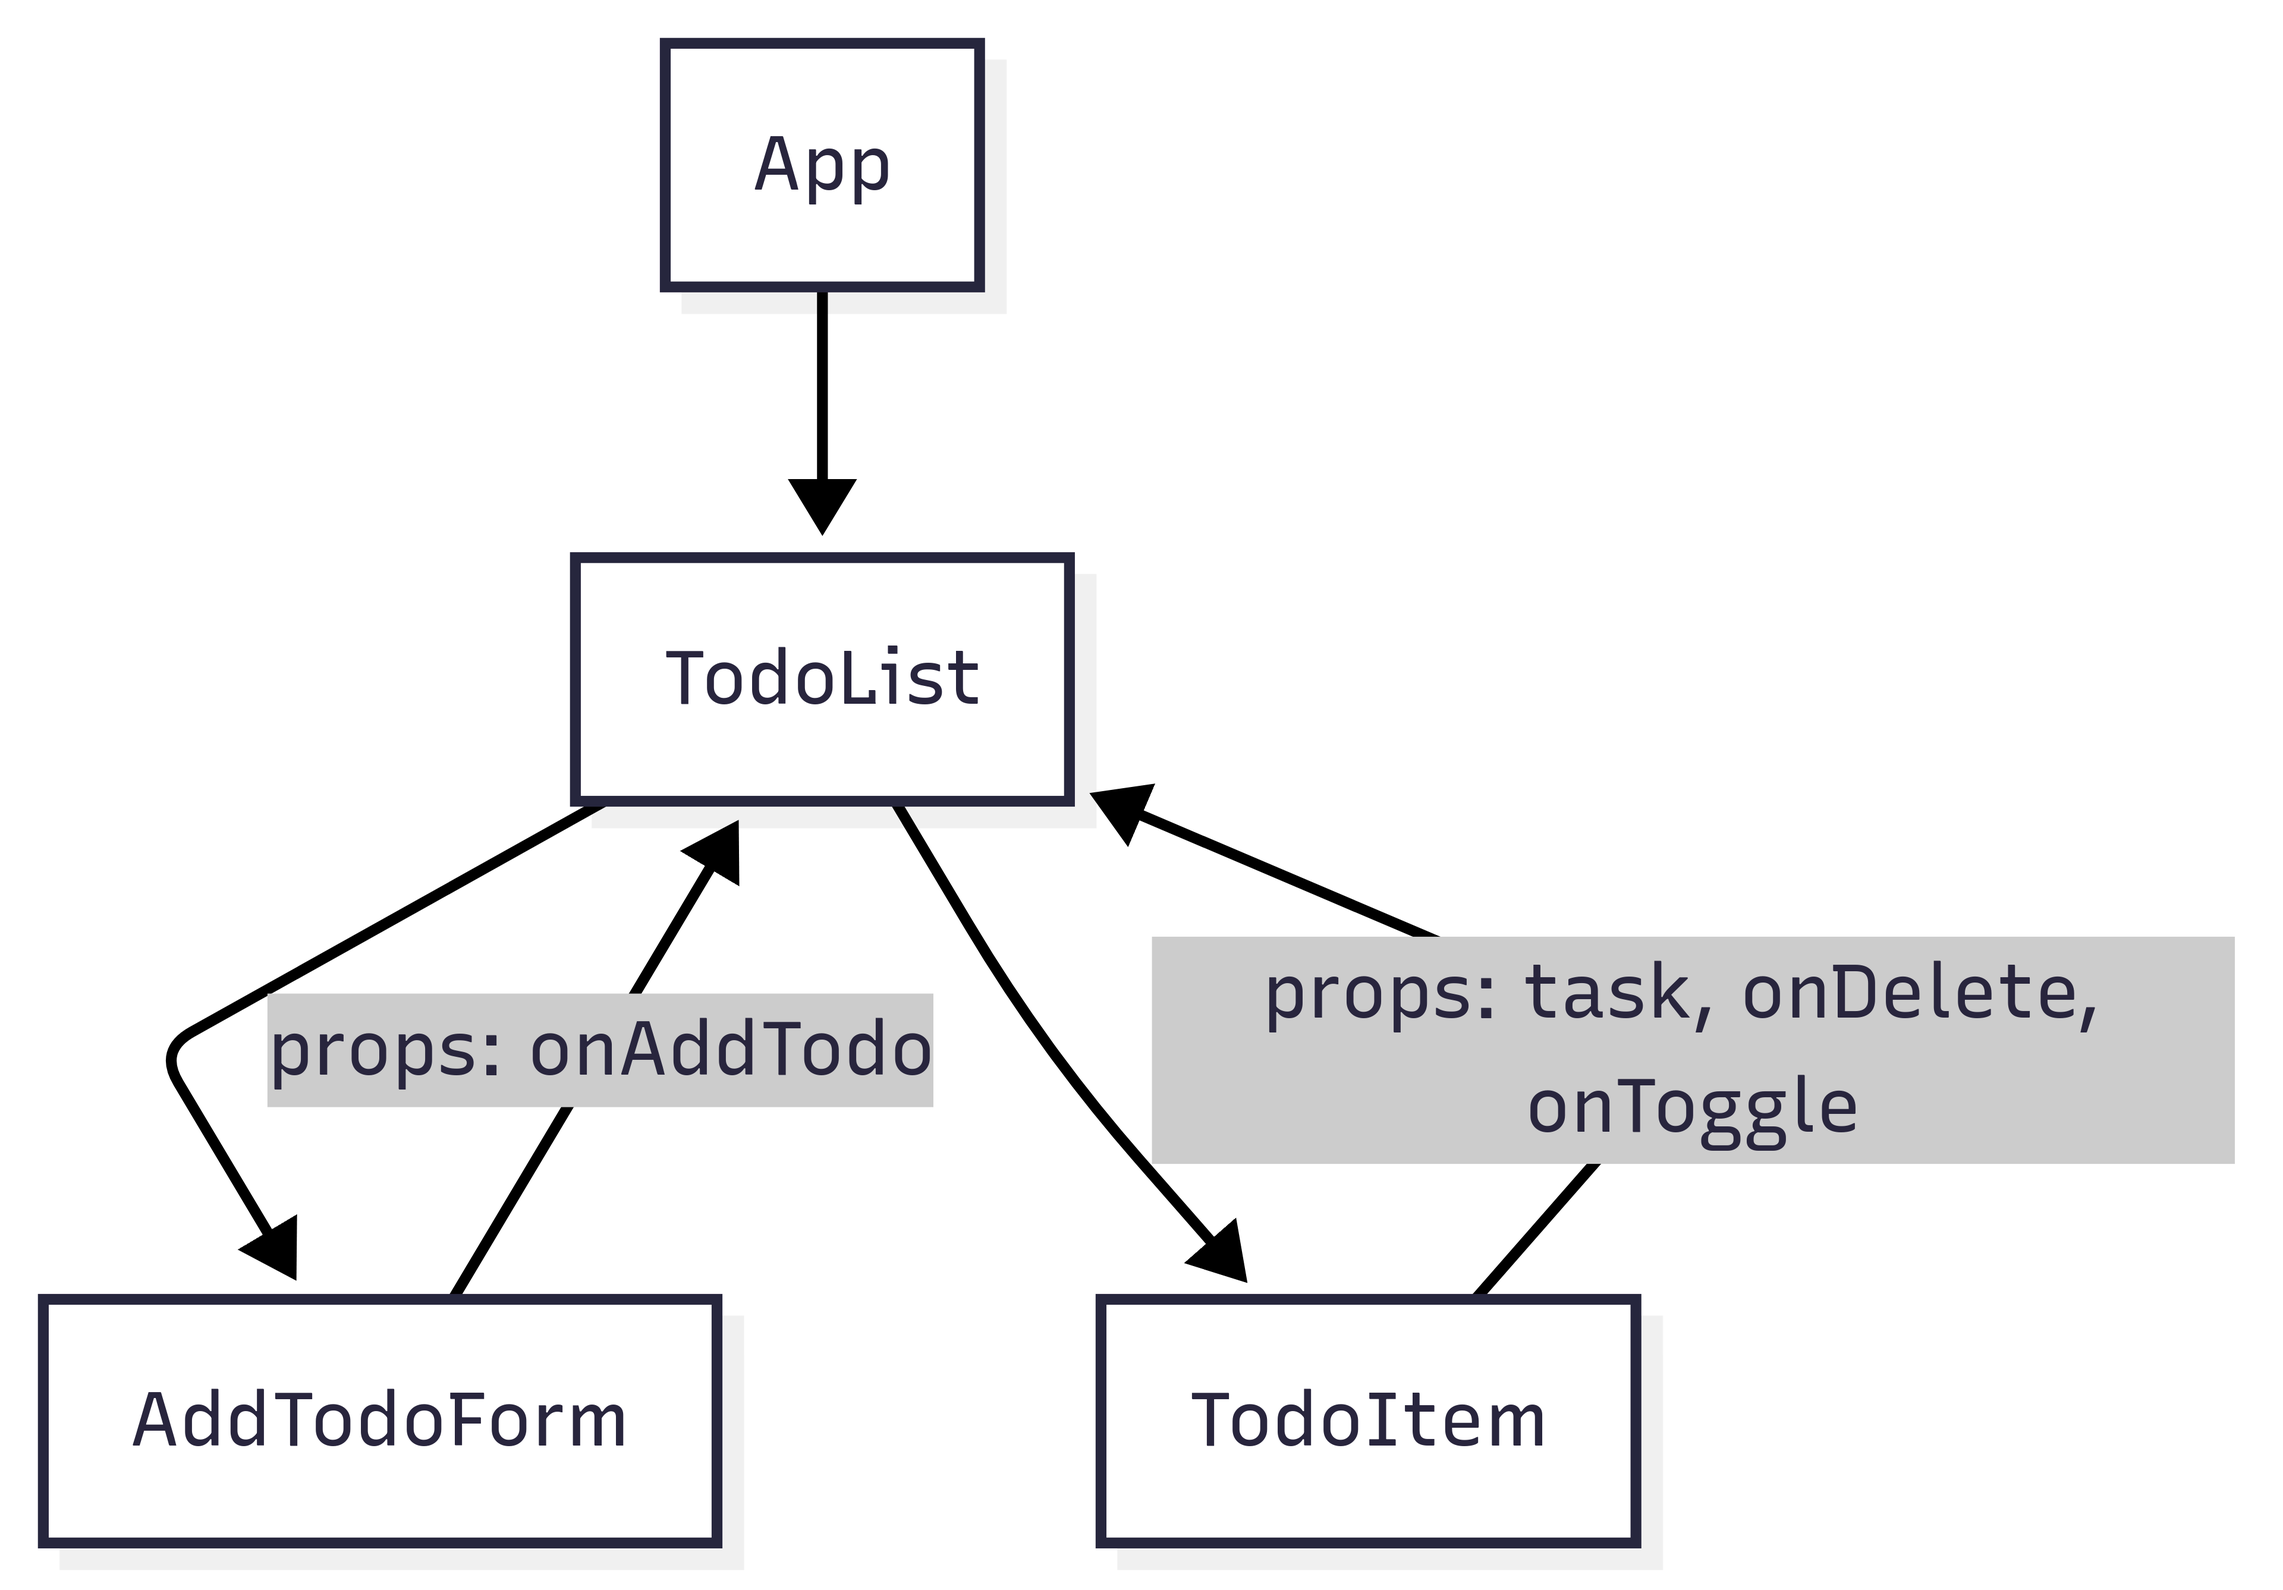
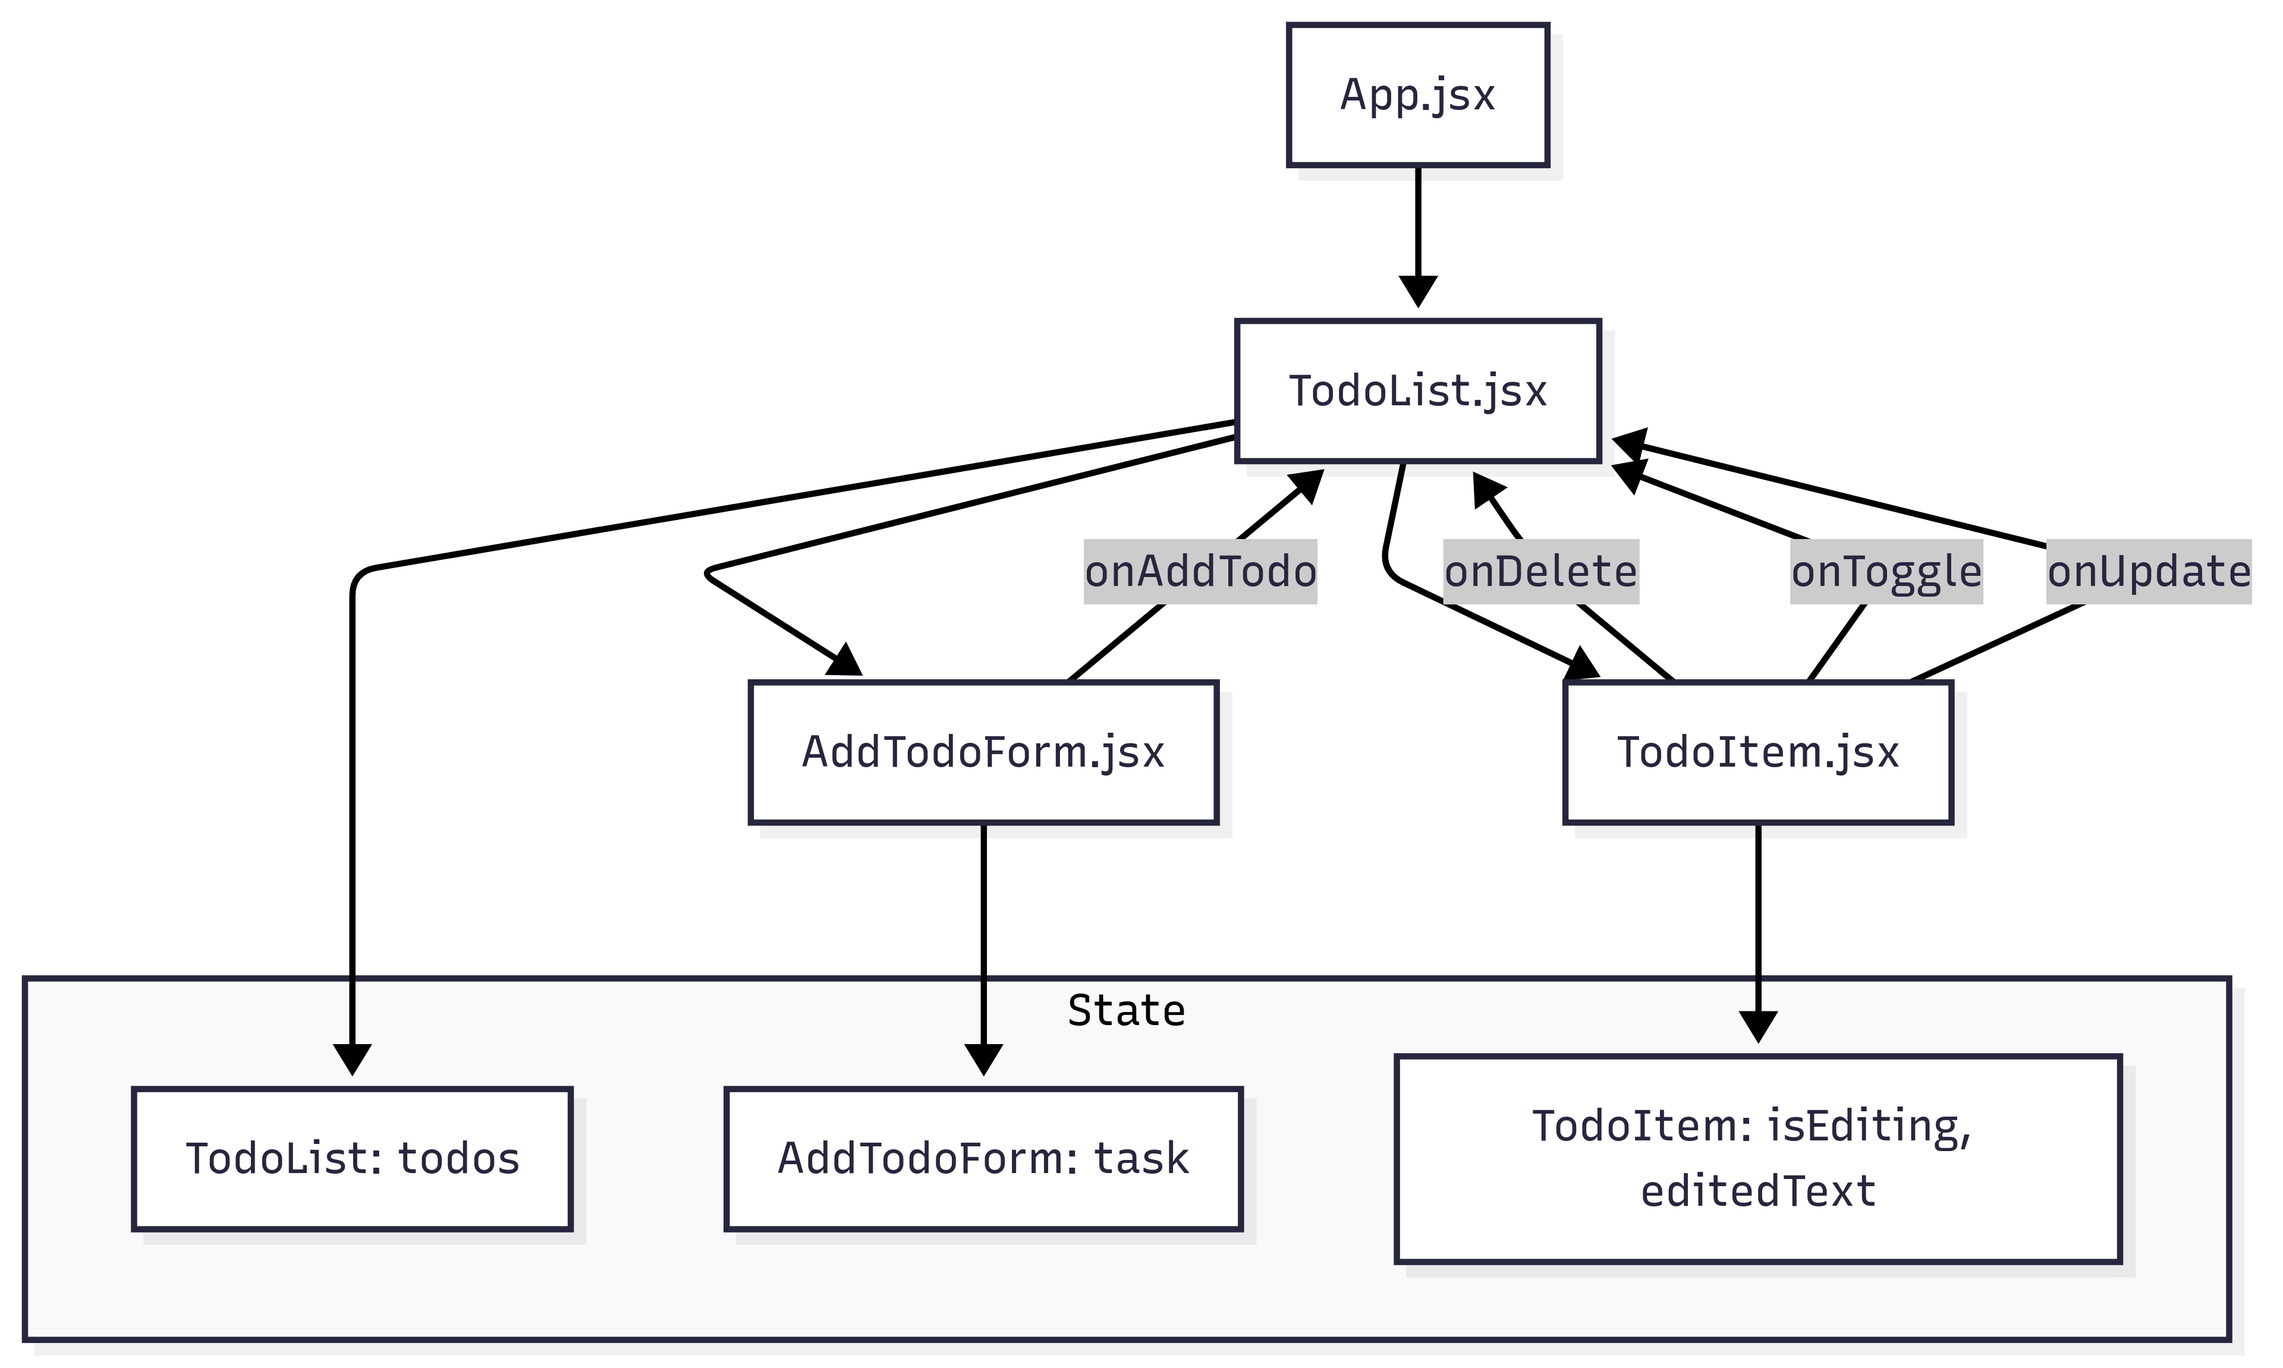
diagram

diff --git a/vite-project/README.md b/vite-project/README.md
@@ -1,8 +1,3 @@
-graph TD
-    App --> TodoList
-    TodoList --> AddTodoForm
-    TodoList --> TodoItem
-    AddTodoForm -->|props: onAddTodo| TodoList
-    TodoItem -->|props: task, onDelete, onToggle| TodoList
-
 ![Component Diagram](public/Diagram.png)
+
+Опис діаграми: Діаграма показує структуру компонентів React-додатку "To-Do List". App.jsx рендерить TodoList.jsx, який керує станом задач (todos) і передає функції через props до AddTodoForm.jsx та TodoItem.jsx. У кожному компоненті показано локальний state, а стрілки з підписами демонструють передачу callback-функцій між компонентами.
